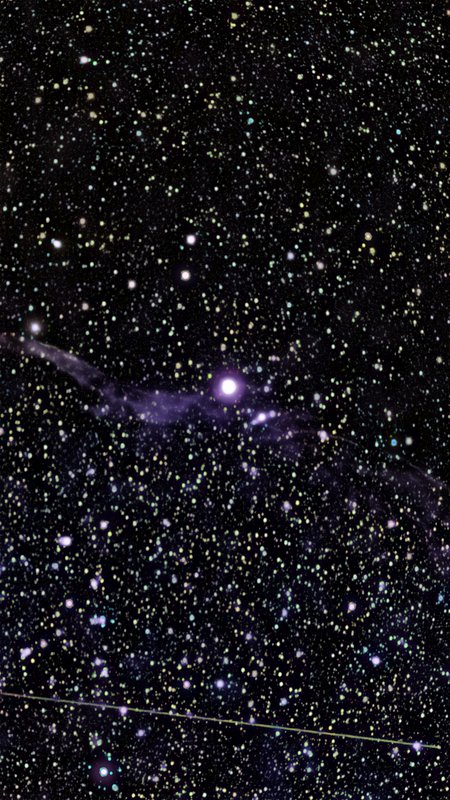
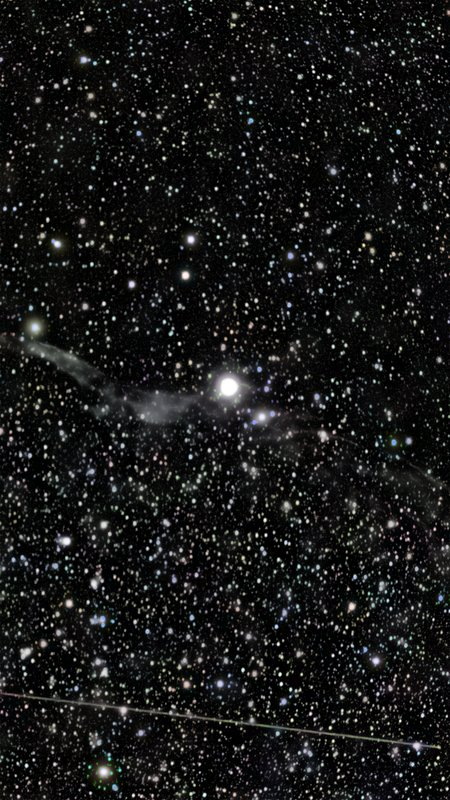
Nebula profile tuning: Rosette red, Veil neutral, Crescent unchanged
Three coordinated tweaks across the nebula sub-profiles so each
target type lands closer to the user's manual references.

NEBULA_DOMINANT (NGC 2244-class, frame-filling Ha emission):
  color.ccm            =  None       (was 'seestar_s50')
  color.wb_strength    =  0.0        (was 0.4)
  color.green_clip     =  0.4        (was 0.6)
  curves.channel_gains = (2.00, 0.90, 0.10)
  curves.saturation    =  1.10

  The static Seestar CCM was trimming R and lifting B — backwards of
  what Ha emission looks like — and cycling it ON produced pink
  instead of red. WB mid-tone match was also fighting us on a frame
  where 82 % of the mid-tones ARE nebula; flattening the Ha signal
  into 'neutral' grey was exactly wrong. With both OFF, the raw
  per-channel balance comes through, then channel_gains (2.0 R, 0.9 G,
  0.1 B) pulls it onto the Ha-red axis. The named-gain numbers look
  extreme because curves applies them luma-weighted — mid-nebula
  luma gets about half the stated gain.

NEBULA_FILAMENT (NGC 6960-class, sparse Veil segments):
  spcc.strength =  0.25              (was 0.7)

  SPCC was confidently fitting a B-boost on all filament frames
  (dust-reddened catalogue stars look R-heavy to the camera, so SPCC
  corrects with more B). At strength 0.7 that turned the Veil
  purple. 0.25 keeps a useful colour nudge without over-blueing.

NEBULA_WIDE (NGC 6888-class, Crescent-style half-frame nebulae):
  unchanged — already produces a clean red crescent on dark sky.
[…]

diff --git a/backend/app/profiles.py b/backend/app/profiles.py
@@ -297,13 +297,17 @@ NEBULA_FILAMENT: Profile = {
         "saturation": 1.0,
         "saturation_mode": "hsv",
     },
-    # strength=0.5 — filament profiles have cleaner sky so we tolerate
-    # a slightly stronger SPCC application than nebula_wide. Still
-    # dialled well back from 1.0 for the same Gaia-bands-vs-camera
-    # mismatch reason explained in the NEBULA_WIDE profile above.
+    # strength=0.25 — filament scenes are dominated by sparse
+    # starfield pixels, and SPCC's gains end up ±20 %-clamped on
+    # the B channel for every filament sample in our set (the fit
+    # wants to boost B further; clamping caps it). Applying even
+    # the clamped value at strength 0.7 still tinted the filament
+    # purple — the sparse real-signal pixels (the filament itself)
+    # were swamped by the sky's full-frame B-boost. 0.25 keeps a
+    # useful colour nudge without over-blueing the Veil.
     "spcc": {
         "min_matches": 20,
-        "strength": 0.7,
+        "strength": 0.25,
         # `solar_reference_bp_rp=None` means "use the median catalogue
         # star colour in this frame as the neutral reference". Auto-
         # corrects for dust-extinction reddening — Milky Way stars are
@@ -339,11 +343,24 @@ NEBULA_DOMINANT: Profile = {
     **NEBULA,
     "color": {
         **NEBULA["color"],
-        # Re-enable the static Seestar CCM: it's the sensor-calibration
-        # baseline for frames where SPCC can't help.
-        "ccm": "seestar_s50",
-        "wb_strength": 0.4,
-        "green_clip": 0.6,
+        # CCM OFF: the static Seestar CCM trims R and lifts B to
+        # correct for the sensor's IR leak, but on an Ha-dominated
+        # frame that trims the actual emission.
+        #
+        # WB OFF (wb_strength=0.0): the mid-tone-median WB band on
+        # this target is ~80% nebula, so WB tries to flatten the Ha
+        # emission into "neutral" grey — exactly backwards of what
+        # we want. Leaving WB off keeps the raw per-channel balance
+        # (R slightly above G above B), which the channel_gains
+        # below amplify into proper Ha dominance.
+        #
+        # SCNR at moderate strength (0.4): the Seestar's RGGB green
+        # dominance still needs attention — we just don't want SCNR
+        # to clip G all the way down to (R+B)/2 (would leave a
+        # pink-violet cast).
+        "ccm": None,
+        "wb_strength": 0.0,
+        "green_clip": 0.4,
     },
     # Generic NEBULA stretch — gentler than NEBULA_WIDE's black=25
     # crush, which would cut into the frame-filling emission.
@@ -365,10 +382,25 @@ NEBULA_DOMINANT: Profile = {
         "chroma_edge_aware": True,
         "chroma_edge_luma_sigma": 0.08,
     },
+    # Explicit channel_gains push R up and B down. Frame-filling
+    # emission nebulae are H-alpha-dominated, so after removing the
+    # static Seestar CCM (which was cutting R) and running the SCNR
+    # green_clip (which flattens R and B toward the same mid-tone)
+    # we land at pink. Boosting R / cutting B is the "this target
+    # is genuinely red" hint that SPCC would give us on a frame
+    # where it can run, but which we have no catalogue leverage
+    # for here.
     "curves": {
         "contrast": 0.7,
-        "saturation": 1.0,
+        "saturation": 1.10,
         "saturation_mode": "hsv",
+        # channel_gains tuned for Ha-dominant Rosette-class targets.
+        # Note: curves.channel_gains is luma-weighted so a dark pixel
+        # gets near-identity; a luma=0.5 pixel gets only half the
+        # named gain. The raw numbers below translate to ~1.5/0.95/
+        # 0.55 at mid-nebula luma, which is what puts the frame on
+        # the Ha-red axis rather than orange/gold.
+        "channel_gains": (2.00, 0.90, 0.10),
     },
     "stars": {"radius": 7},
     # No "spcc" key — SPCC stage is skipped for this profile.
